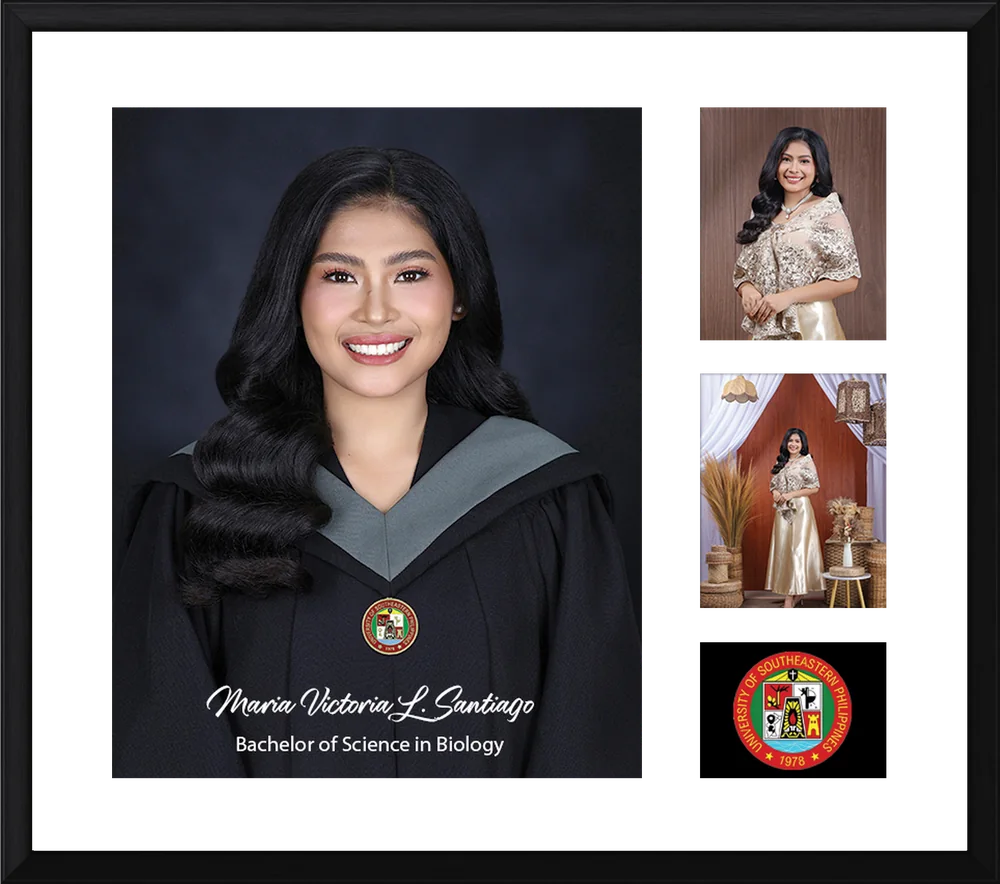
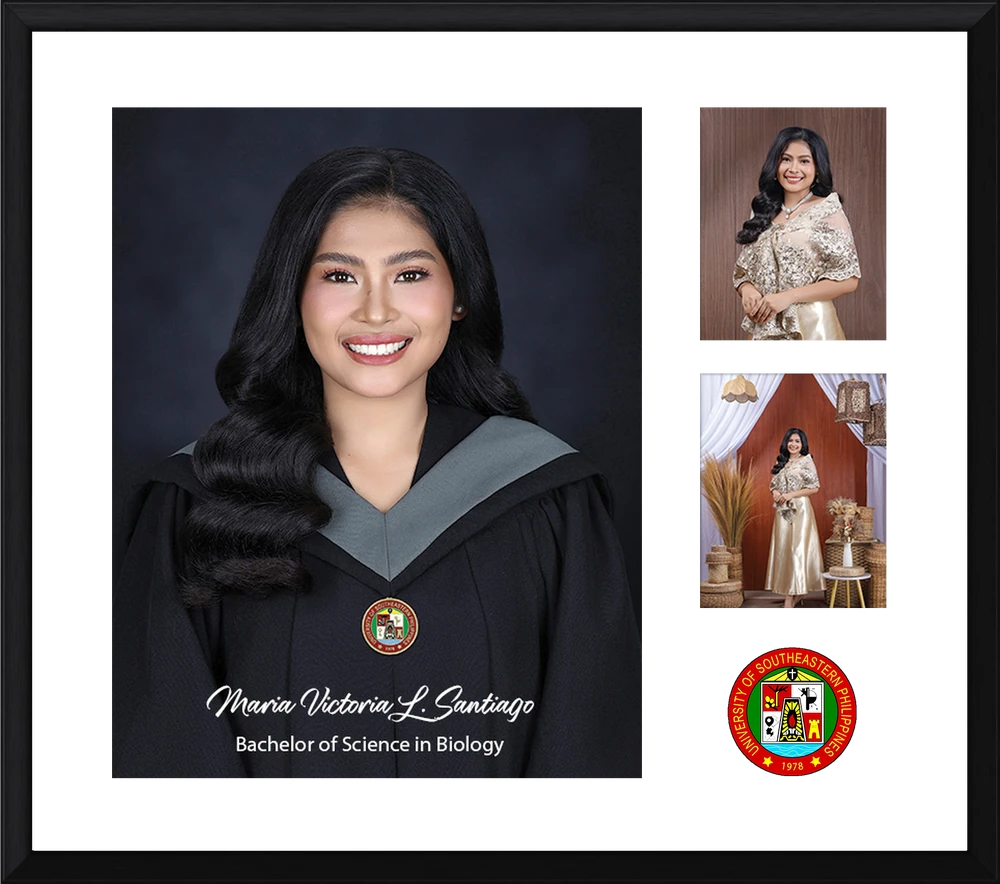
Preview: new Ultimate frame photo

Changed region(s): [[0.682, 0.7025, 0.899, 0.8857]]

diff --git a/index.html b/index.html
@@ -203,7 +203,7 @@
             </button>
             <button class="fw-frame" type="button" style="--x:43.60%;--y:14.98%;--fw:14.35%;--ar:1927/1704;--mx:48.14%;--my:23.62%;--mfw:27.10%"
               data-name="Ultimate Floating Frame" data-desc="Your package photos together: main portrait with your name and course, two creative shots, and your school seal." data-size="(12 × 13 in)" data-price="₱1,290">
-              <span class="fw-art" style="--l:2.91%;--t:3.23%;--w:94.08%;--h:93.31%;--src:url(web/frames/frame-03.webp)">
+              <span class="fw-art" style="--l:3.22%;--t:3.58%;--w:93.51%;--h:92.61%;--src:url(web/frames/frame-03.webp)">
                 <img src="web/frames/frame-03.webp" width="1000" height="884" alt="Ultimate frame" loading="lazy" draggable="false"><span class="fw-sun"></span>
               </span>
             </button>
